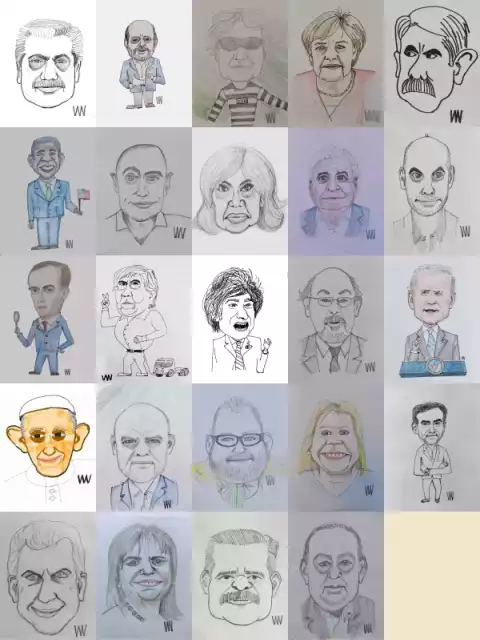
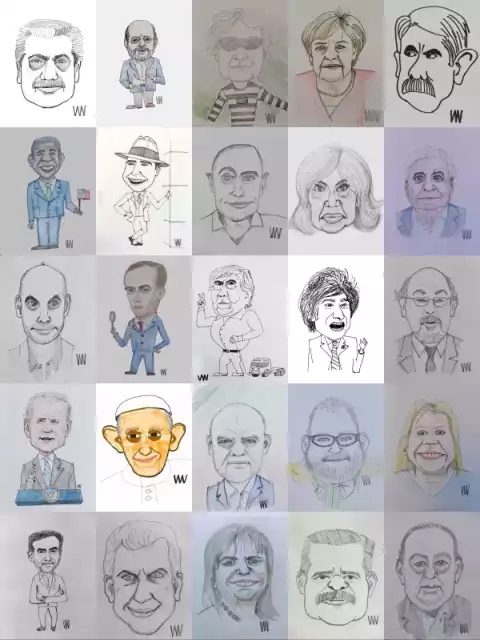
Version 20210309

diff --git a/galeria-publicos.html b/galeria-publicos.html
@@ -37,24 +37,25 @@
 					<area shape="rect" coords="288,000,384,128" onclick="muestraImagen('images/personajes/AngelaMerkel.webp ')" alt="AngelaMerkel ">
 					<area shape="rect" coords="384,000,480,128" onclick="muestraImagen('images/personajes/AnibalF.webp			')" alt="AnibalF.web  ">
 					<area shape="rect" coords="000,128,096,256" onclick="muestraImagen('images/personajes/BarackOb.webp			')" alt="BarackOb     ">
-					<area shape="rect" coords="096,128,192,256" onclick="muestraImagen('images/personajes/CarlosPagni.webp	')" alt="CarlosPagni  ">
-					<area shape="rect" coords="192,128,288,256" onclick="muestraImagen('images/personajes/CEFK.webp					')" alt="CEFK.webp    ">
-					<area shape="rect" coords="288,128,384,256" onclick="muestraImagen('images/personajes/GinesGGarcia.webp ')" alt="GinesGGarcia ">
-					<area shape="rect" coords="384,128,480,256" onclick="muestraImagen('images/personajes/HoracioRL.webp		')" alt="HoracioRL    ">
-					<area shape="rect" coords="000,256,096,384" onclick="muestraImagen('images/personajes/HugoAlconad.webp	')" alt="HugoAlconad  ">
-					<area shape="rect" coords="096,256,192,384" onclick="muestraImagen('images/personajes/HugoMoya.webp			')" alt="HugoMoya     ">
-					<area shape="rect" coords="192,256,288,384" onclick="muestraImagen('images/personajes/JavierMilei.webp  ')" alt="JavierMilei ">
-					<area shape="rect" coords="288,256,384,384" onclick="muestraImagen('images/personajes/JoaquinMSola.webp ')" alt="JoaquinMSola ">
-					<area shape="rect" coords="384,256,480,384" onclick="muestraImagen('images/personajes/JoeBiden.webp     ')" alt="Joe Biden ">
-					<area shape="rect" coords="000,384,096,512" onclick="muestraImagen('images/personajes/JorgeBergog.webp	')" alt="JorgeBergoglio">
-					<area shape="rect" coords="096,384,192,512" onclick="muestraImagen('images/personajes/JorgeFD.webp			')" alt="Jorge Fernandez Diaz">
-					<area shape="rect" coords="192,384,288,512" onclick="muestraImagen('images/personajes/JorgeLana.webp		')" alt="Jorge Lanata">
-					<area shape="rect" coords="288,384,384,512" onclick="muestraImagen('images/personajes/LilitaCarrio.webp	')" alt="Lilita Carrio">
-					<area shape="rect" coords="384,384,480,512" onclick="muestraImagen('images/personajes/LuisMajul.webp	  ')" alt="LuisMajul    ">
-					<area shape="rect" coords="000,512,096,640" onclick="muestraImagen('images/personajes/MauricioM.webp		')" alt="MauricioM    ">
-					<area shape="rect" coords="096,512,192,640" onclick="muestraImagen('images/personajes/PatriciaB.webp		')" alt="PatriciaB    ">
-					<area shape="rect" coords="192,512,288,640" onclick="muestraImagen('images/personajes/rlopezm.webp			')" alt="rlopez Murphy">
-					<area shape="rect" coords="288,512,384,640" onclick="muestraImagen('images/personajes/RobertoC.webp			')" alt="Roberto Cacha">
+					<area shape="rect" coords="096,128,192,256" onclick="muestraImagen('images/personajes/CarlosGardel.webp	')" alt="CarlosPagni  ">
+					<area shape="rect" coords="192,128,288,256" onclick="muestraImagen('images/personajes/CarlosPagni.webp	')" alt="CarlosPagni  ">
+					<area shape="rect" coords="288,128,384,256" onclick="muestraImagen('images/personajes/CEFK.webp					')" alt="CEFK.webp    ">
+					<area shape="rect" coords="384,128,480,256" onclick="muestraImagen('images/personajes/GinesGGarcia.webp ')" alt="GinesGGarcia ">
+					<area shape="rect" coords="000,256,096,384" onclick="muestraImagen('images/personajes/HoracioRL.webp		')" alt="HoracioRL    ">
+					<area shape="rect" coords="096,256,192,384" onclick="muestraImagen('images/personajes/HugoAlconad.webp	')" alt="HugoAlconad  ">
+					<area shape="rect" coords="192,256,288,384" onclick="muestraImagen('images/personajes/HugoMoya.webp			')" alt="HugoMoya     ">
+					<area shape="rect" coords="288,256,384,384" onclick="muestraImagen('images/personajes/JavierMilei.webp  ')" alt="JavierMilei ">
+					<area shape="rect" coords="384,256,480,384" onclick="muestraImagen('images/personajes/JoaquinMSola.webp ')" alt="JoaquinMSola ">
+					<area shape="rect" coords="000,384,096,512" onclick="muestraImagen('images/personajes/JoeBiden.webp     ')" alt="Joe Biden ">
+					<area shape="rect" coords="096,384,192,512" onclick="muestraImagen('images/personajes/JorgeBergog.webp	')" alt="JorgeBergoglio">
+					<area shape="rect" coords="192,384,288,512" onclick="muestraImagen('images/personajes/JorgeFD.webp			')" alt="Jorge Fernandez Diaz">
+					<area shape="rect" coords="288,384,384,512" onclick="muestraImagen('images/personajes/JorgeLana.webp		')" alt="Jorge Lanata">
+					<area shape="rect" coords="384,384,480,512" onclick="muestraImagen('images/personajes/LilitaCarrio.webp	')" alt="Lilita Carrio">
+					<area shape="rect" coords="000,512,096,640" onclick="muestraImagen('images/personajes/LuisMajul.webp	  ')" alt="LuisMajul    ">
+					<area shape="rect" coords="096,512,192,640" onclick="muestraImagen('images/personajes/MauricioM.webp		')" alt="MauricioM    ">
+					<area shape="rect" coords="192,512,288,640" onclick="muestraImagen('images/personajes/PatriciaB.webp		')" alt="PatriciaB    ">
+					<area shape="rect" coords="288,512,384,640" onclick="muestraImagen('images/personajes/rlopezm.webp			')" alt="rlopez Murphy">
+					<area shape="rect" coords="384,512,480,640" onclick="muestraImagen('images/personajes/RobertoC.webp			')" alt="Roberto Cacha">
 				</map>
 				<img usemap="#primary" src="images/personajes/galeria-publicos.webp" alt="personajes publicos">
 
